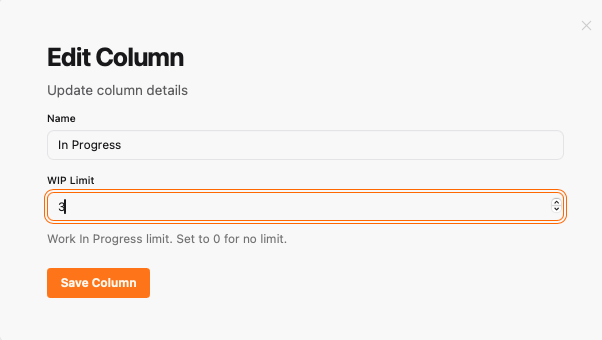
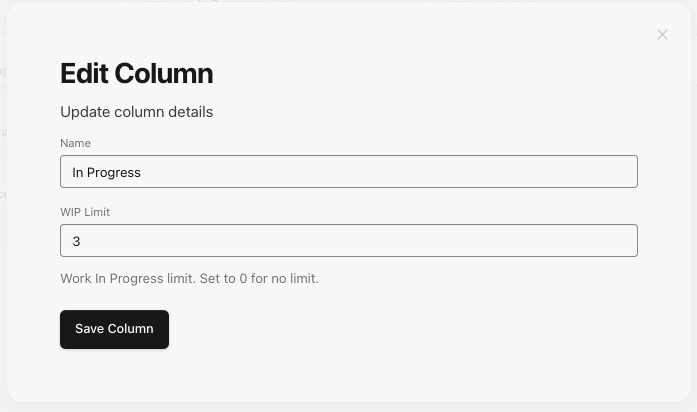
Completed task W2438: Refresh the Getting Started guides' text and screenshots against the current app

diff --git a/priv/static/images/resources/guides/README.md b/priv/static/images/resources/guides/README.md
@@ -68,6 +68,13 @@ already signed in, your own name, avatar and other boards are on screen too.
 Crop them out: the sidebar footer, the member avatars in the board header, the
 workspace switcher, and `/boards`. For shots of those, sign in as Maya.
 
+Once a viewer is on the demo boards, they stay there, so they show up even
+when you're signed in as Maya: in the **Manage members** list, as an avatar on
+the board cards and the board header, and in the **Assigned To** options.
+Remove them from the page before you capture (delete their member row and
+avatar in the browser's dev tools or with a `browser.eval` script). Change only
+the page, never the data.
+
 Never forge a session cookie to sign in as someone else.
 
 Organization and workspace screens (`/org`, `/org/audit`, `/org/security`,
@@ -95,9 +102,19 @@ and check that every name and email on screen is a test account.
      `tmp/tidewave/screenshots/`.
    - If a capture call hangs or fails, don't wait on it. Take the shot by
      hand with Cmd+Shift+4 on macOS (or the Snipping Tool) instead.
+   - Fill and click with `browser.fill` and `browser.click`. Setting an
+     input's value in a script and submitting the form doesn't reach the
+     LiveView.
+   - Wait about a second after any change to the page before you capture.
+     A capture taken straight away can still show the old page.
+   - A screen taller than the window (the task form) can be captured whole
+     by zooming the page out, for example
+     `document.documentElement.style.zoom = "0.8"`. Don't go below 0.8, or
+     the text is too small to read.
 6. **Crop** to the part of the UI the step talks about, plus enough around it
    to find it. On macOS, `sips -c <height> <width> --cropOffset <y> <x> in.png --out out.png`
-   crops without other tools.
+   crops without other tools. Use an offset of at least 1: `sips` treats
+   `--cropOffset 0 0` as no offset and crops from the middle.
 7. **Compress** to under 200 KB (ImageOptim, TinyPNG or `pngquant`).
 8. **Name** the file `[guide-id]-step-[n].png`, kebab-case. Use
    `-step-[n]-[m].png` when one step has several images. Older files keep their
@@ -133,20 +150,23 @@ so routes say which demo board to open. `Checkout` is Checkout Revamp and
 
 | File | Guide / step | Route | UI state | Viewport / crop |
 |---|---|---|---|---|
-| `board-creation-step-1.png` | creating-your-first-board / 1 Access Your Boards Dashboard | any page | Sidebar with **Boards** | Crop the sidebar item |
-| `board-creation-step-2.png` | creating-your-first-board / 2 Click New Board | `/boards` (as Maya) | The new-board control | Crop the control |
-| `board-creation-step-3.png` | creating-your-first-board / 3 Enter Board Details | `/boards/new` | Form filled with a demo name and description | Crop the form |
-| `board-creation-step-4.png` | creating-your-first-board / 4 Start Using Your Board | `/boards/<Checkout>` | Board header and first columns | Full width, top of the board |
-| `understanding-columns-step-2.png` | understanding-columns / 2 AI-Optimized Boards: Fixed Columns | `/boards/<Checkout>` | All five column headers with cards | Full width, column headers and first cards |
-| `understanding-columns-step-3.png` | understanding-columns / 3 Custom Boards: Flexible Columns | `/boards/<Marketing>` | Four custom columns | Crop the column headers |
-| `understanding-columns-step-5-1.png` | understanding-columns / 5 WIP Limits | `/boards/<Marketing>/columns/<In Progress>/edit` | Column form with the WIP limit | Crop the form |
-| `understanding-columns-step-5-2.png` | understanding-columns / 5 WIP Limits | `/boards/<Marketing>` | In Progress header showing 3 of 3 | Crop the header |
-| `adding-task-step-1.png` | adding-your-first-task / 1 Open the Task Form | `/boards/<Checkout>` | Ring and arrow on the Backlog **Add Task** (+) button | Backlog and Ready headers |
-| `adding-task-step-2.png` | adding-your-first-task / 2 Enter Task Details | `/boards/<Checkout>/columns/<Backlog>/tasks/new` | New Task form filled with a demo task | Crop the form |
-| `adding-task-step-4.png` | adding-your-first-task / 4 Save and Start Working | same as above | The form's save button | Crop the button area |
-| `inviting-members-step-1.png` | inviting-team-members / 1 Access Board Settings | `/boards/<Checkout>` | Board tabs with **Members** | Full width, header and tabs |
-| `inviting-members-step-2.png` | inviting-team-members / 2 Search for Users | `/boards/<Checkout>/members` | Search for "Jordan" showing Jordan Alvarez | Crop the search panel |
-| `inviting-members-step-3.png` | inviting-team-members / 3 Set Permission Level | `/boards/<Checkout>/members` | Access level choice for Jordan | Crop the panel |
+| `board-creation-step-1.png` | creating-your-first-board / 1 Access Your Boards Dashboard | `/boards` (as Maya) | Top of the sidebar with **Boards** active | Crop the top of the sidebar |
+| `board-creation-step-2.png` | creating-your-first-board / 2 Choose a Board Type | `/boards` (as Maya) | Checkout Revamp card and the **New board** card with **Empty Board** and **AI Optimized**; Marketing card hidden in the page | Header and first grid row |
+| `board-creation-step-3.png` | creating-your-first-board / 3 Enter Board Details | `/boards/new?ai_optimized=true` | **New Board** form with a demo name and description, not saved | From the heading to **Save Board** |
+| `board-creation-step-4.png` | creating-your-first-board / 4 Start Using Your Board | `/boards/<Checkout>` | Header, tabs and all five columns, page zoomed to 80% | Full width, top of the board |
+| `understanding-columns-step-2.png` | understanding-columns / 2 AI-Optimized Boards: Fixed Columns | `/boards/<Checkout>` | All five column headers with cards, page zoomed to 80% | Column headers and first cards |
+| `understanding-columns-step-3.png` | understanding-columns / 3 Custom Boards: Flexible Columns | `/boards/<Marketing>` | Four custom columns, In Progress at 3/3 | Crop the columns |
+| `understanding-columns-step-5-1.png` | understanding-columns / 5 WIP Limits | `/boards/<Marketing>/columns/<In Progress>/edit` | Column form with **WIP Limit** 3, nothing focused | Crop the form |
+| `understanding-columns-step-5-2.png` | understanding-columns / 5 WIP Limits | `/boards/<Marketing>` | In Progress header showing 3/3, with no + button | Crop the column |
+| `adding-task-step-1.png` | adding-your-first-task / 1 Open the Task Form | `/boards/<Checkout>` | Ring and arrow on the Backlog **Add Task** (+) button | Backlog and Ready headers, exactly 560x160 (the image test uses this size) |
+| `adding-task-step-2.png` | adding-your-first-task / 2 Enter Task Details | `/boards/<Checkout>/columns/<Backlog>/tasks/new` | New Task form filled with a demo task under the Saved payment methods goal, page zoomed to 80%, not saved | From the heading to **Column** |
+| `adding-task-step-4.png` | adding-your-first-task / 4 Save and Start Working | same as above, scrolled to the bottom | Labels (Payments ticked), Dependencies and **Save Task** | Crop the button area |
+| `inviting-members-step-1.png` | inviting-team-members / 1 Open the Members Tab | `/boards/<Checkout>` | Ring and arrow on the **Members** tab | Full width, header and tabs |
+| `inviting-members-step-2.png` | inviting-team-members / 2 Search by Email | `/boards/<Checkout>/members` | Searched `jordan.alvarez@example.test` (search matches whole emails only); Jordan's card shown | From the heading to Jordan's card |
+| `inviting-members-step-3.png` | inviting-team-members / 3 Choose Their Access | `/boards/<Checkout>/members` | Jordan's card and the current users (Maya, Marcus, Priya) | From Jordan's card to **Close** |
+| `inviting-team-members-step-4.png` | inviting-team-members / 4 Invite Someone Without an Account | `/boards/<Checkout>/members` | Searched `sam.ortiz@example.test`, which has no account; the invite card shown. Don't click an invite button | Crop the window |
+| `using-stride-with-a-team-step-2.png` | using-stride-with-a-team / 2 Plan the Work as Goals | `/boards/<Checkout>` | The Saved payment methods goal card in Ready, its child W10 below and W9 in Doing | Ready and Doing columns, scrolled to the goal |
+| `using-stride-with-a-team-step-3.png` | using-stride-with-a-team / 3 Assign Each Goal to a Developer | `/boards/<Checkout>/tasks/<goal>/edit` | **Assigned To** set to Priya Raman with a ring, not saved | Priority to Assigned To |
 | `hooks-step-2.png` | setting-up-hooks / 2 Create .stride.md | an editor, not the app | `.stride.md` with the guide's example hooks | Crop the editor pane |
 | `api-auth-step-1.png` | api-authentication / 1 Generate an API Token | `/boards/<Checkout>/api_tokens` | Token form filled with a demo name | Crop the form |
 | `api-auth-step-2.png` | api-authentication / 2 Complete Token Generation | `/boards/<Checkout>/api_tokens` | New-token panel, token text replaced with a fake value | Crop the panel |
